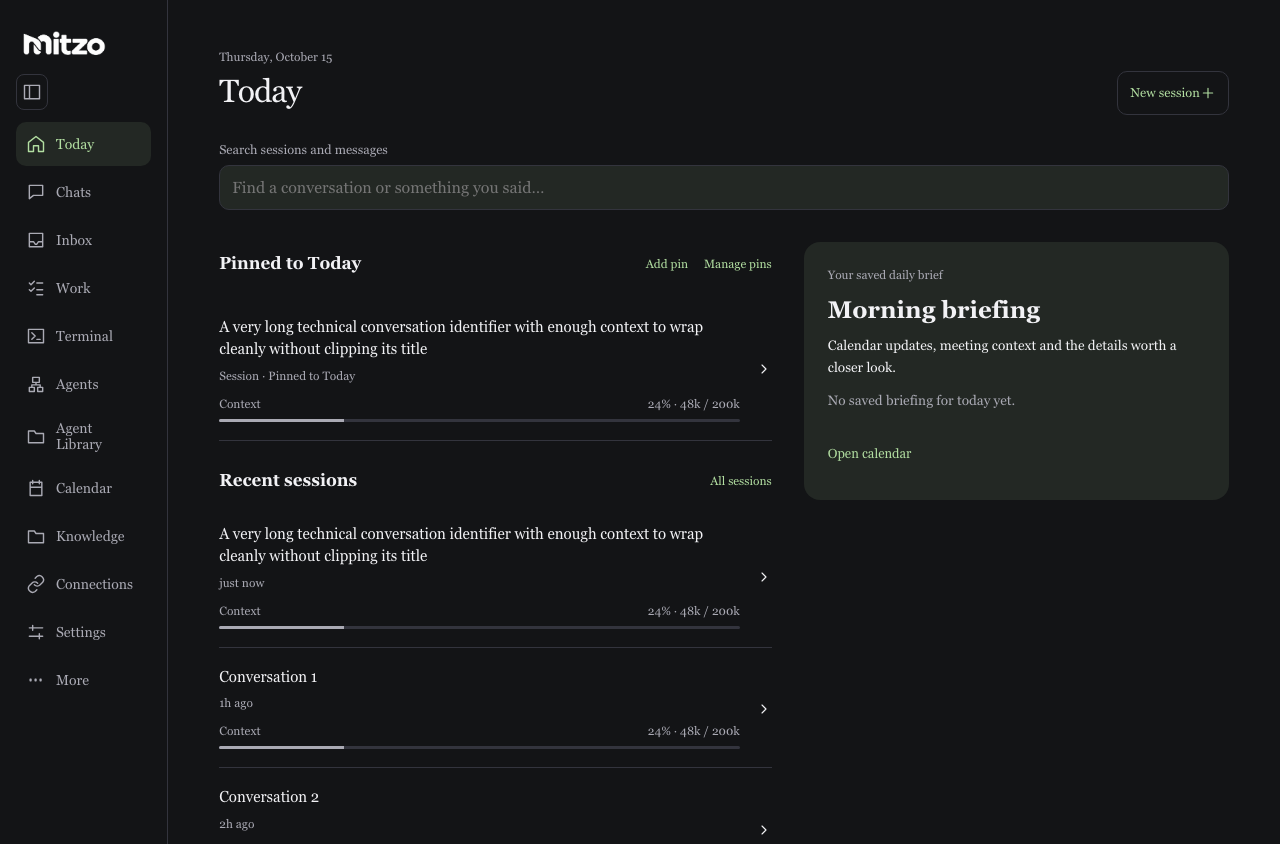
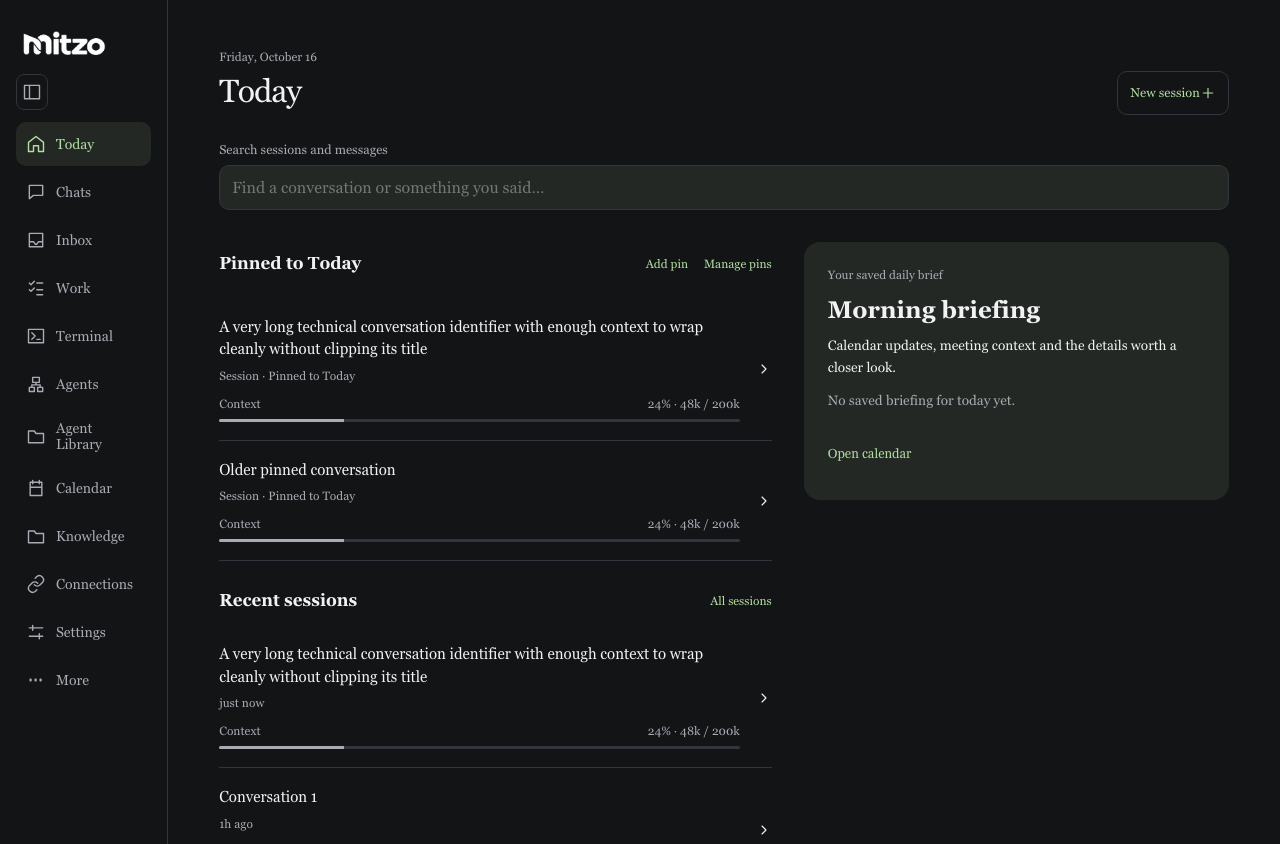
fix: load recorded context for off-page Today pins

Changed region(s): [[0.1562, 0.5545, 0.5938, 0.8318], [0.1875, 0.0616, 0.25, 0.0924], [0.5625, 0.5545, 0.5938, 0.5853]]

diff --git a/frontend/src/components/__tests__/HomePinContext.test.tsx b/frontend/src/components/__tests__/HomePinContext.test.tsx
@@ -1,0 +1,113 @@
+// @vitest-environment jsdom
+import { act, cleanup, render, screen, waitFor, within } from '@testing-library/react';
+import { afterEach, beforeEach, expect, it, vi } from 'vitest';
+import { MemoryRouter } from 'react-router-dom';
+import { HomePins } from '../HomePins';
+import { apiFetch } from '../../lib/api-fetch';
+import type { Session } from '../../types/chat';
+const data = vi.hoisted(() => ({ id: 'older' }));
+vi.mock('../../hooks/useHomePreferences', () => ({
+  useHomePreferences: () => ({
+    preferences: {
+      pins: [
+        { kind: 'session', id: data.id, title: 'Older pinned chat' },
+        { kind: 'telos', id: 'work', title: 'Work pin' },
+      ],
+    },
+  }),
+}));
+vi.mock('../../lib/api-fetch', () => ({
+  apiFetch: vi.fn(),
+  AUTH_LOST_EVENT: 'mitzo:auth-lost',
+  AUTH_RESTORED_EVENT: 'mitzo:auth-restored',
+}));
+const usage = {
+  used: 48000,
+  measuredAt: 1,
+  limits: { model: 'fixture', source: 'runtime' as const, contextWindow: 200000, stale: false },
+};
+beforeEach(() => {
+  localStorage.clear();
+  data.id = 'older';
+  vi.mocked(apiFetch)
+    .mockReset()
+    .mockResolvedValue(Response.json({ sessionId: 'older', contextUsage: usage }));
+});
+afterEach(cleanup);
+function show(sessions: Session[] = []) {
+  return render(
+    <MemoryRouter>
+      <HomePins sessions={sessions} />
+    </MemoryRouter>,
+  );
+}
+it('loads actual context for a Today pin outside the recent-session page', async () => {
+  show([{ id: 'recent', summary: 'Recent', lastModified: 2 }]);
+  await waitFor(() =>
+    expect(
+      within(screen.getByRole('link', { name: /Older pinned chat/ }))
+        .getByRole('meter')
+        .getAttribute('aria-valuenow'),
+    ).toBe('24'),
+  );
+  expect(apiFetch).toHaveBeenCalledTimes(1);
+  expect(apiFetch).toHaveBeenCalledWith(
+    '/api/sessions/older/context',
+    expect.objectContaining({ signal: expect.any(AbortSignal) }),
+  );
+  expect(within(screen.getByRole('link', { name: /Work pin/ })).queryByText(/Context/)).toBeNull();
+});
+it('reuses an observation already present in the loaded page', () => {
+  show([{ id: 'older', summary: 'Older', lastModified: 1, contextUsage: usage }]);
+  expect(screen.getByRole('meter').getAttribute('aria-valuenow')).toBe('24');
+  expect(apiFetch).not.toHaveBeenCalled();
+});
+it('does not request context when the Appearance preference is disabled', () => {
+  localStorage.setItem('mitzo-today-tokens', 'false');
+  show();
+  expect(apiFetch).not.toHaveBeenCalled();
+  expect(screen.queryByText(/Context/)).toBeNull();
+});
+it.each(['http', 'network', 'missing', 'mismatch'])(
+  'keeps unavailable context explicit after %s',
+  async (failure) => {
+    vi.mocked(apiFetch).mockImplementation(async () => {
+      if (failure === 'network') throw Error('offline');
+      return Response.json(
+        failure === 'missing'
+          ? { sessionId: 'older', contextUsage: null }
+          : { sessionId: 'another', contextUsage: usage },
+        { status: failure === 'http' ? 503 : 200 },
+      );
+    });
+    show();
+    await act(async () => {});
+    expect(screen.getByText('Context unavailable')).toBeTruthy();
+    expect(screen.queryByRole('meter')).toBeNull();
+  },
+);
+it('aborts obsolete pin reads and ignores their late responses', async () => {
+  let finish!: (response: Response) => void;
+  let signal: AbortSignal | undefined;
+  vi.mocked(apiFetch)
+    .mockImplementationOnce((_url, init) => {
+      signal = init?.signal as AbortSignal;
+      return new Promise((resolve) => {
+        finish = resolve;
+      });
+    })
+    .mockResolvedValue(
+      Response.json({ sessionId: 'newer', contextUsage: { ...usage, used: 100000 } }),
+    );
+  const view = show();
+  data.id = 'newer';
+  view.rerender(
+    <MemoryRouter>
+      <HomePins sessions={[]} />
+    </MemoryRouter>,
+  );
+  await waitFor(() => expect(screen.getByRole('meter').getAttribute('aria-valuenow')).toBe('50'));
+  expect(signal?.aborted).toBe(true);
+  await act(async () => finish(Response.json({ sessionId: 'older', contextUsage: usage })));
+  expect(screen.getByRole('meter').getAttribute('aria-valuenow')).toBe('50');
+});

diff --git a/frontend/src/components/HomePins.tsx b/frontend/src/components/HomePins.tsx
@@ -1,7 +1,8 @@
 import { SessionContextUsage } from './SessionContextUsage';
 import { useSessionDisplay } from '../hooks/useSessionDisplay';
 import { UiIcon } from './UiIcon';
-import { useState } from 'react';
+import { useEffect, useState } from 'react';
+import { apiFetch } from '../lib/api-fetch';
 import { Link } from 'react-router-dom';
 import type { HomePin } from '@mitzo/protocol';
 import type { Session } from '../types/chat';
@@ -57,7 +58,8 @@ export function HomePins({ sessions }: { sessions: Session[] }) {
               <strong>{recordTitle(pin.title)}</strong>
               <small>{pin.kind === 'session' ? 'Session' : 'Work'} · Pinned to Today</small>
               {pin.kind === 'session' && showContext && (
-                <SessionContextUsage
+                <PinnedSessionContext
+                  sessionId={pin.id}
                   usage={sessions.find((session) => session.id === pin.id)?.contextUsage}
                 />
               )}
@@ -85,6 +87,40 @@ export function HomePins({ sessions }: { sessions: Session[] }) {
     </section>
   );
 }
+/** Read only the selected pin's observation, independently of list pagination. */
+function PinnedSessionContext({
+  sessionId,
+  usage,
+}: {
+  sessionId: string;
+  usage?: Session['contextUsage'];
+}) {
+  const [recorded, setRecorded] = useState<{
+    sessionId: string;
+    usage?: Session['contextUsage'];
+  }>();
+  useEffect(() => {
+    if (usage !== undefined) return;
+    const controller = new AbortController();
+    void apiFetch(`/api/sessions/${encodeURIComponent(sessionId)}/context`, {
+      signal: controller.signal,
+    })
+      .then(async (response) => {
+        if (!response.ok) return;
+        const data = await response.json();
+        if (!controller.signal.aborted && data?.sessionId === sessionId)
+          setRecorded({ sessionId, usage: data.contextUsage ?? undefined });
+      })
+      .catch(() => {});
+    return () => controller.abort();
+  }, [sessionId, usage]);
+  return (
+    <SessionContextUsage
+      usage={usage ?? (recorded?.sessionId === sessionId ? recorded.usage : undefined)}
+    />
+  );
+}
+
 function flatten(items: TodoItem[]): TodoItem[] {
   return items.flatMap((item) => [item, ...flatten(item.children)]);
 }

diff --git a/server/__tests__/session-meta-visibility.test.ts b/server/__tests__/session-meta-visibility.test.ts
@@ -145,3 +145,34 @@ it('retains the last admitted model and thinking when optional account refresh f
   expect(response.body.accountBinding.model).toBe('first');
   expect(store.getSessionRuntimeBinding(meta.sessionId)).toEqual(runtime);
 });
+
+it('reads a pinned session’s recorded context by ID without catalog, runtime or list work', async () => {
+  store.upsertSession({ sessionId: 'older-pin', summary: 'Older pin', inputTokens: 900000 });
+  store.append('older-pin', 'token_update', {
+    agentContext: 48000,
+    sessionTotal: 900000,
+    tokenLimits: { model: 'fixture', source: 'runtime', contextWindow: 200000 },
+  });
+  catalog.refresh.mockClear();
+  const before = store.getLatestEvent('older-pin', 'token_update');
+  const response = await request(app).get('/api/sessions/older-pin/context');
+  expect(response.status).toBe(200);
+  expect(response.body).toEqual({
+    sessionId: 'older-pin',
+    contextUsage: {
+      used: 48000,
+      measuredAt: before!.createdAt,
+      limits: { model: 'fixture', source: 'runtime', contextWindow: 200000, stale: false },
+    },
+  });
+  expect(catalog.refresh).not.toHaveBeenCalled();
+  expect(store.getLatestEvent('older-pin', 'token_update')).toEqual(before);
+  store.upsertSession({ sessionId: 'no-measurement', inputTokens: 900000 });
+  expect((await request(app).get('/api/sessions/no-measurement/context')).body).toEqual({
+    sessionId: 'no-measurement',
+    contextUsage: null,
+  });
+  store.hideSession('older-pin');
+  expect((await request(app).get('/api/sessions/older-pin/context')).status).toBe(404);
+  expect((await request(app).get('/api/sessions/missing/context')).status).toBe(404);
+});

diff --git a/tests/offline/session-library.spec.ts b/tests/offline/session-library.spec.ts
@@ -104,6 +104,10 @@ for (const theme of ['dark', 'light'])
         });
       const data: Record<string, unknown> = {
         '/api/sessions': { sessions, hasMore: false },
+        '/api/sessions/older-pin/context': {
+          sessionId: 'older-pin',
+          contextUsage: sessions[0].contextUsage,
+        },
         '/api/config': { quickActions: [] },
         '/api/briefings/latest': null,
         '/api/version': { updateAvailable: false },
@@ -111,7 +115,10 @@ for (const theme of ['dark', 'light'])
           revision: 1,
           names: { briefing: 'Minion', terminal: 'Minion' },
           showDailyQuote: false,
-          pins: [{ kind: 'session', id: 'session-0', title: sessions[0].summary }],
+          pins: [
+            { kind: 'session', id: 'session-0', title: sessions[0].summary },
+            { kind: 'session', id: 'older-pin', title: 'Older pinned conversation' },
+          ],
         },
         '/api/todos': {
           profiles: [],
@@ -234,6 +241,9 @@ for (const theme of ['dark', 'light'])
       'aria-valuenow',
       '24',
     );
+    await expect(
+      page.getByRole('link', { name: /Older pinned conversation/ }).getByRole('meter'),
+    ).toHaveAttribute('aria-valuenow', '24');
     await page.screenshot({ path: testInfo.outputPath(`session-context-${theme}.png`) });
     await page.goto('/settings');
     const toggle = page.getByRole('checkbox', { name: 'Show session context on Today' });

diff --git a/server/connections/reviewed-handler-artifacts.ts b/server/connections/reviewed-handler-artifacts.ts
@@ -10,7 +10,7 @@ export const reviewedHandlerImplementationRevision = 'v1.0.2';
 export const reviewedGithubPublicationImplementationRevision = 'v1.0.10';
 
 /** Runtime admission changes without changing existing provider policy semantics. */
-export const reviewedConnectionsRuntimeImplementationRevision = 'v1.0.152';
+export const reviewedConnectionsRuntimeImplementationRevision = 'v1.0.153';
 
 export function reviewedHandlerSourceFingerprint(source: string) {
   return createHash('sha256').update(source.replace(/\r\n/g, '\n')).digest('hex');
@@ -322,7 +322,7 @@ export const reviewedHandlerSourceArtifacts = Object.freeze({
[2 lines of base64/hex data omitted]
   // Request authority and physical review composition share runtime admission.
[4 lines of base64/hex data omitted]
   '../symposium-review-route-composition.ts':

diff --git a/server/app.ts b/server/app.ts
@@ -2675,6 +2675,20 @@ app.get('/api/sessions', async (req, res) => {
   }
 });
 
+// Pinned Today sessions need their own read-only observation, beyond the recent page.
+app.get('/api/sessions/:id/context', (req, res) => {
+  const meta = eventStore.getSession(req.params.id);
+  if (!meta || meta.isHidden) {
+    res.status(404).json({ error: 'Session not found' });
+    return;
+  }
+  const { contextUsage } = sessionListMetadata(
+    meta,
+    eventStore.getLatestEvent(meta.sessionId, 'token_update'),
+  );
+  res.json({ sessionId: meta.sessionId, contextUsage: contextUsage ?? null });
+});
+
 app.get(
   '/api/sessions/:id/messages',
   createSessionMessagesHandler({

diff --git a/docs/design/ui-design-system.md b/docs/design/ui-design-system.md
@@ -728,6 +728,8 @@ was used.
 
 ## Session library and context summaries
 
+Today pins outside the recent page read their recorded observation by session ID, without resuming a provider. Disabled context display makes no extra reads; obsolete requests abort, and missing or failed observations remain explicitly unavailable. Confirmed deletion clears the selected preview, and a confirmed rename updates off-page pin snapshots and the selected title. Failed mutations preserve the saved selection and title.
+
 Today renders the latest recorded context observation separately from cumulative
 request usage. A measured count without current model-capacity evidence keeps its
 limit explicitly unreported; absent counts never become zero and stale capacity evidence never establishes a
@@ -770,13 +772,14 @@ long press, right-click, resize, keyboard dismissal and the Appearance preferenc
 Unit regressions cover touch cancellation/tap suppression, empty/error/loading
 history, stale selection, pin persistence and missing/stale context limits.
 No backend, provider turn or model call was used. This is component-route evidence;
-full app integration remains with CI and canonical staging acceptance.
+full app integration remains with CI. Canonical staging and its pipeline are stood down; this work performs no deployment.
 
 Inspected captures: [desktop library](assets/session-library-desktop-dark.png),
 [light desktop](assets/session-library-desktop-light.png),
 [mobile library](assets/session-library-mobile-dark.png),
 [mobile history/actions](assets/session-preview-mobile-light.png),
-[Today context](assets/session-context-desktop-dark.png) and
+[desktop Today context](assets/session-context-desktop-dark.png),
+[mobile Today context](assets/session-context-mobile-dark.png) and
 [Appearance preference](assets/session-appearance-desktop-light.png).
 
 Local validation: 267 focused unit regressions, the design contract and six browser
